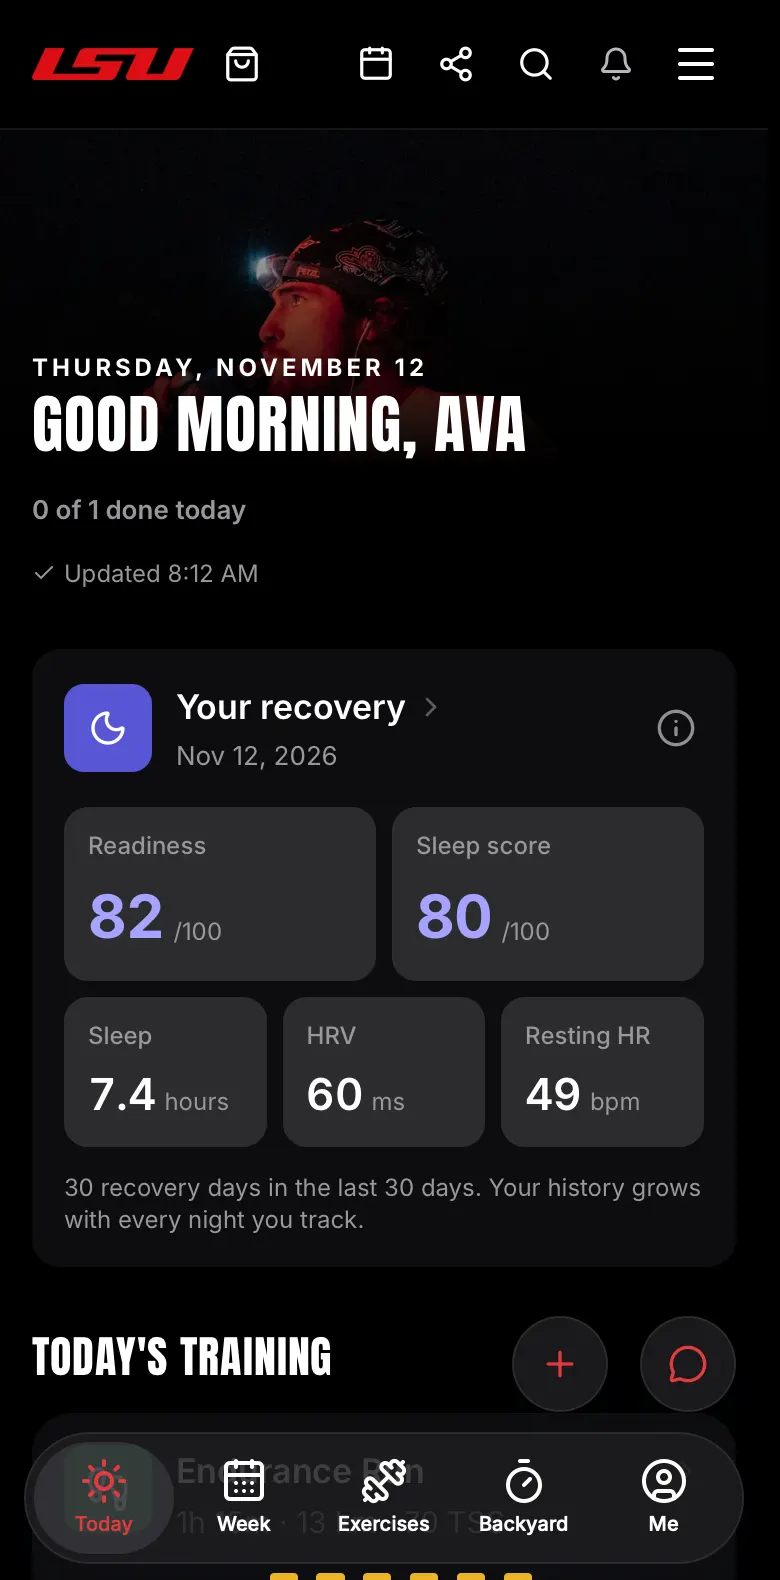
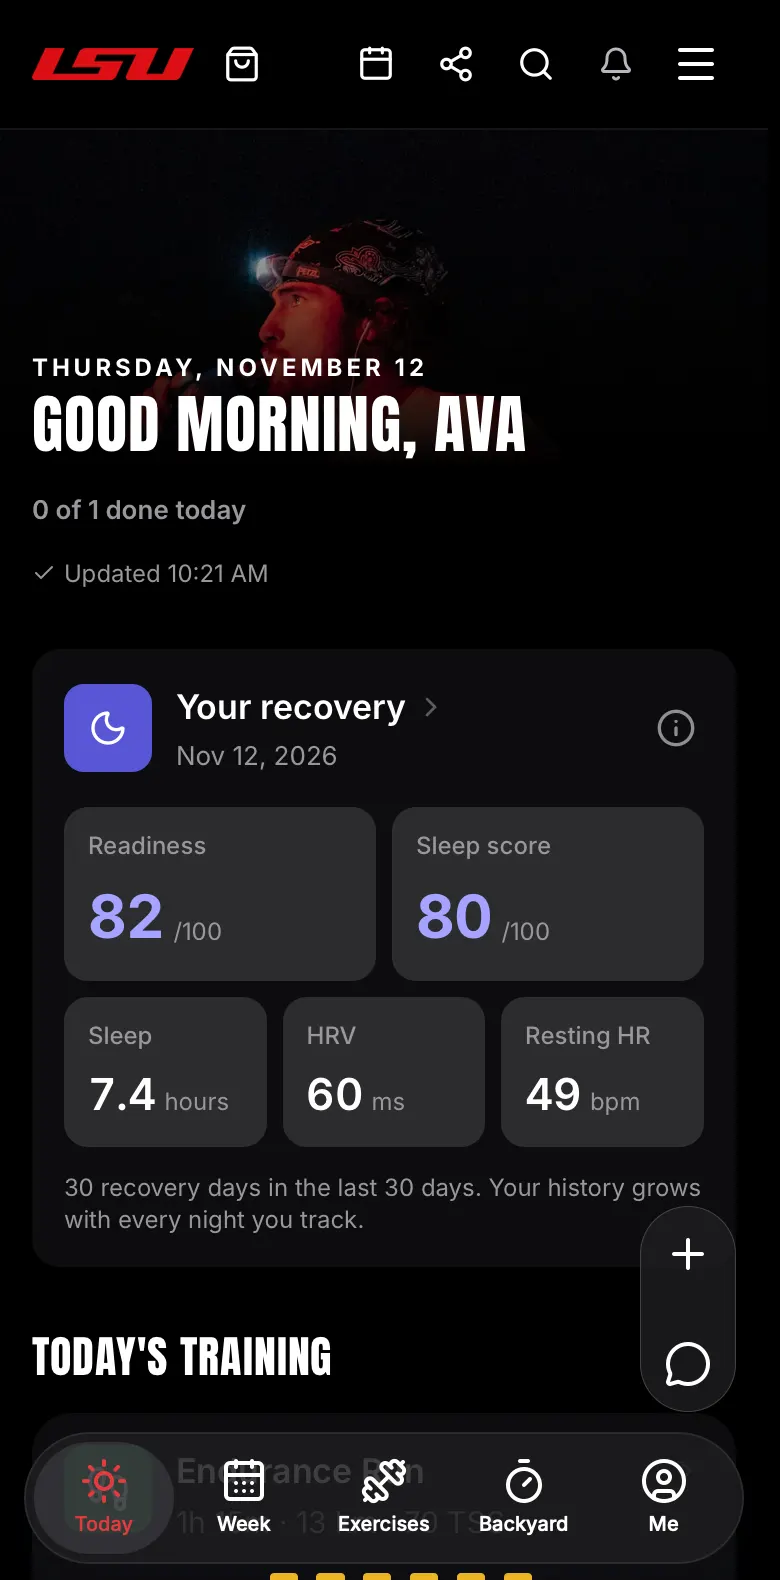
fix(onboarding): photograph the tour's screens again with Add and Messages in one floating capsule
The pictures taken this morning showed Add and Messages as two round buttons
side by side. Kit 1.0.4273 floats them in one glass capsule above the right
end of the tab bar, with neutral icons, so the athlete screens are taken again
from that kit running as this installation with HQ's demo gym, in dark and in
light. Every ring sits where it did. The coach's store no longer carries the
notice about a server without card payments.

Changed region(s): [[0.6462, 0.7753, 0.9538, 0.8994], [0.2769, 0.3411, 0.3385, 0.3722], [0.2154, 0.3411, 0.2462, 0.3722]]

diff --git a/enterprise/hq-acceptance.md b/enterprise/hq-acceptance.md
@@ -108,9 +108,15 @@ Adopted on 2026-11-11, with HQ platform kit 1.0.4230 or later:
   runner's head is in the frame. The acceptance journey visits every new tab,
   the heart and the menu.
 - **The tour's phone pictures (2026-11-12).** `native/onboarding` was
-  photographed again from kit 1.0.4264 running as this installation with HQ's
+  photographed again from kit 1.0.4273 running as this installation with HQ's
   demo gym: the fifteen athlete and coach screens with the new tab bar, each
-  with its ring, once in dark and once in light. The app opens dark, and a
+  with its ring, once in dark and once in light. The athlete screens now show
+  the phone layout's floating capsule above the right end of the tab bar: Add
+  over Messages in one glass capsule on Today, Messages alone on the other
+  pages, with neutral icons except on the Messages page itself. Today's ring
+  stays on the recovery card, because Start sits below the photograph. The
+  coach's pages have no capsule and keep their pictures from kit 1.0.4264.
+  The app opens dark, and a
   member who picks light in the theme switch gets light, so the light pictures
   are taken with that choice stored (`stx-color-mode`), not by telling the
   browser the device is light. HQ's `scripts/onboarding-screens.ts` drove
